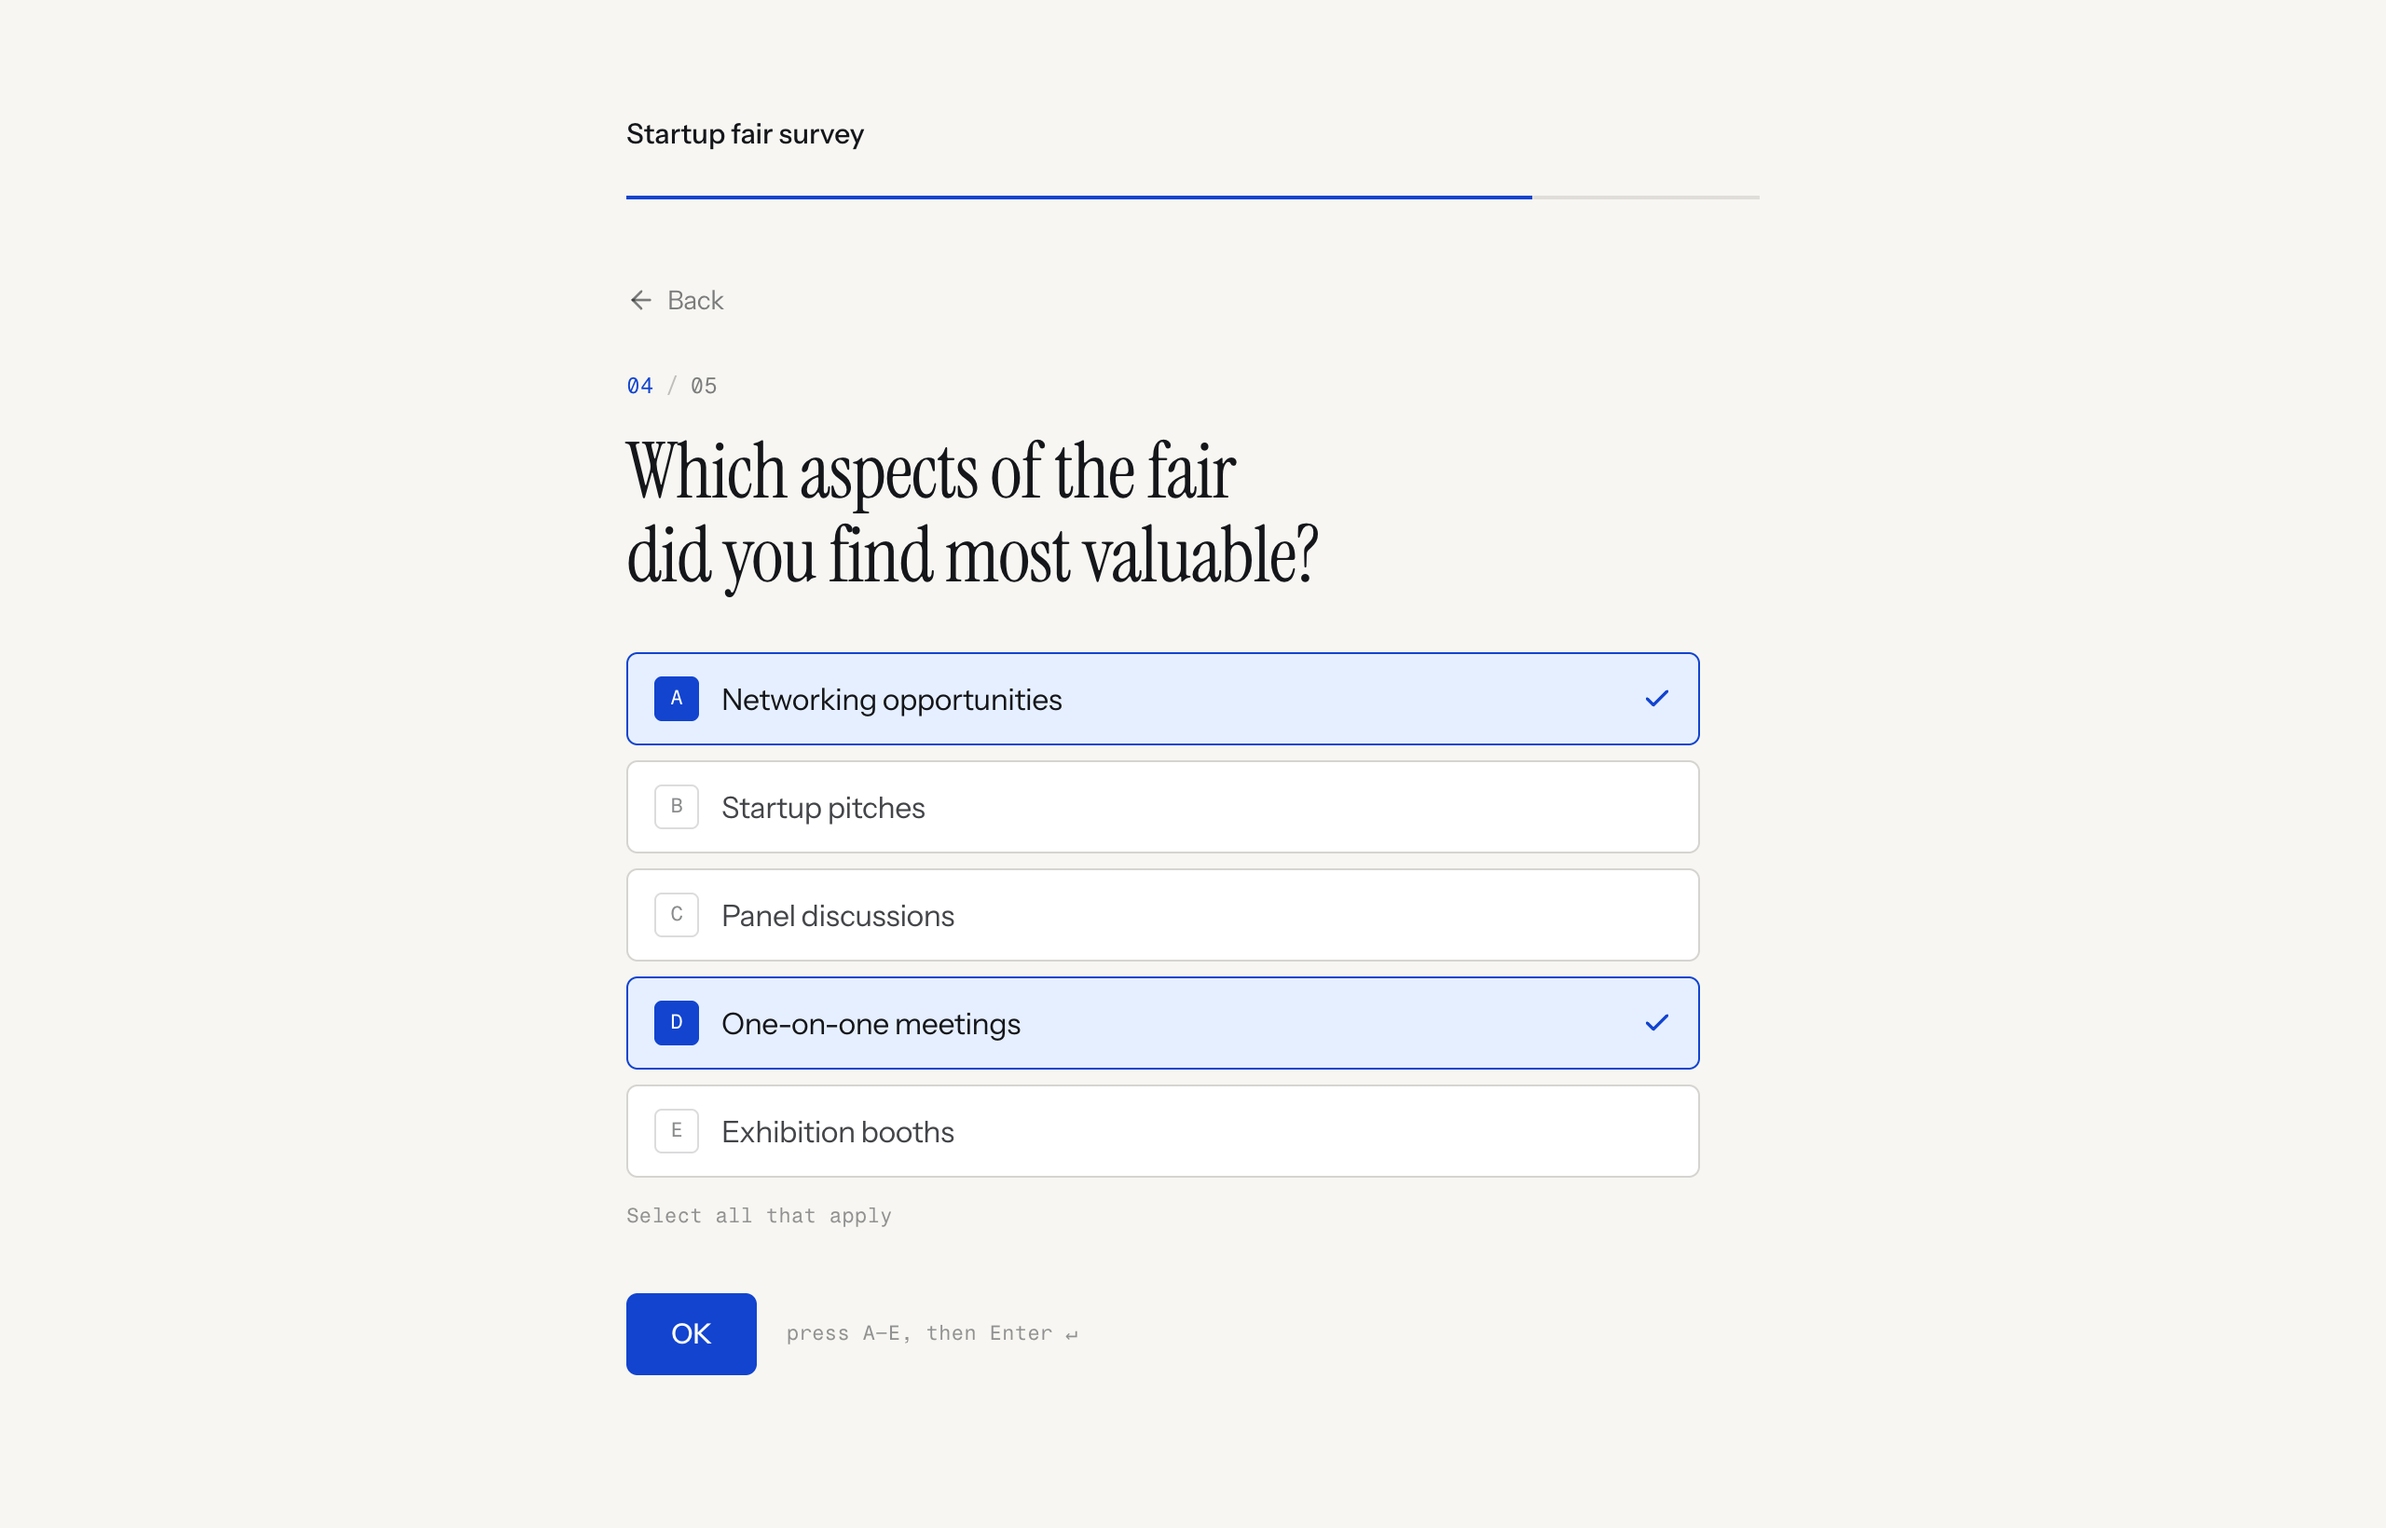
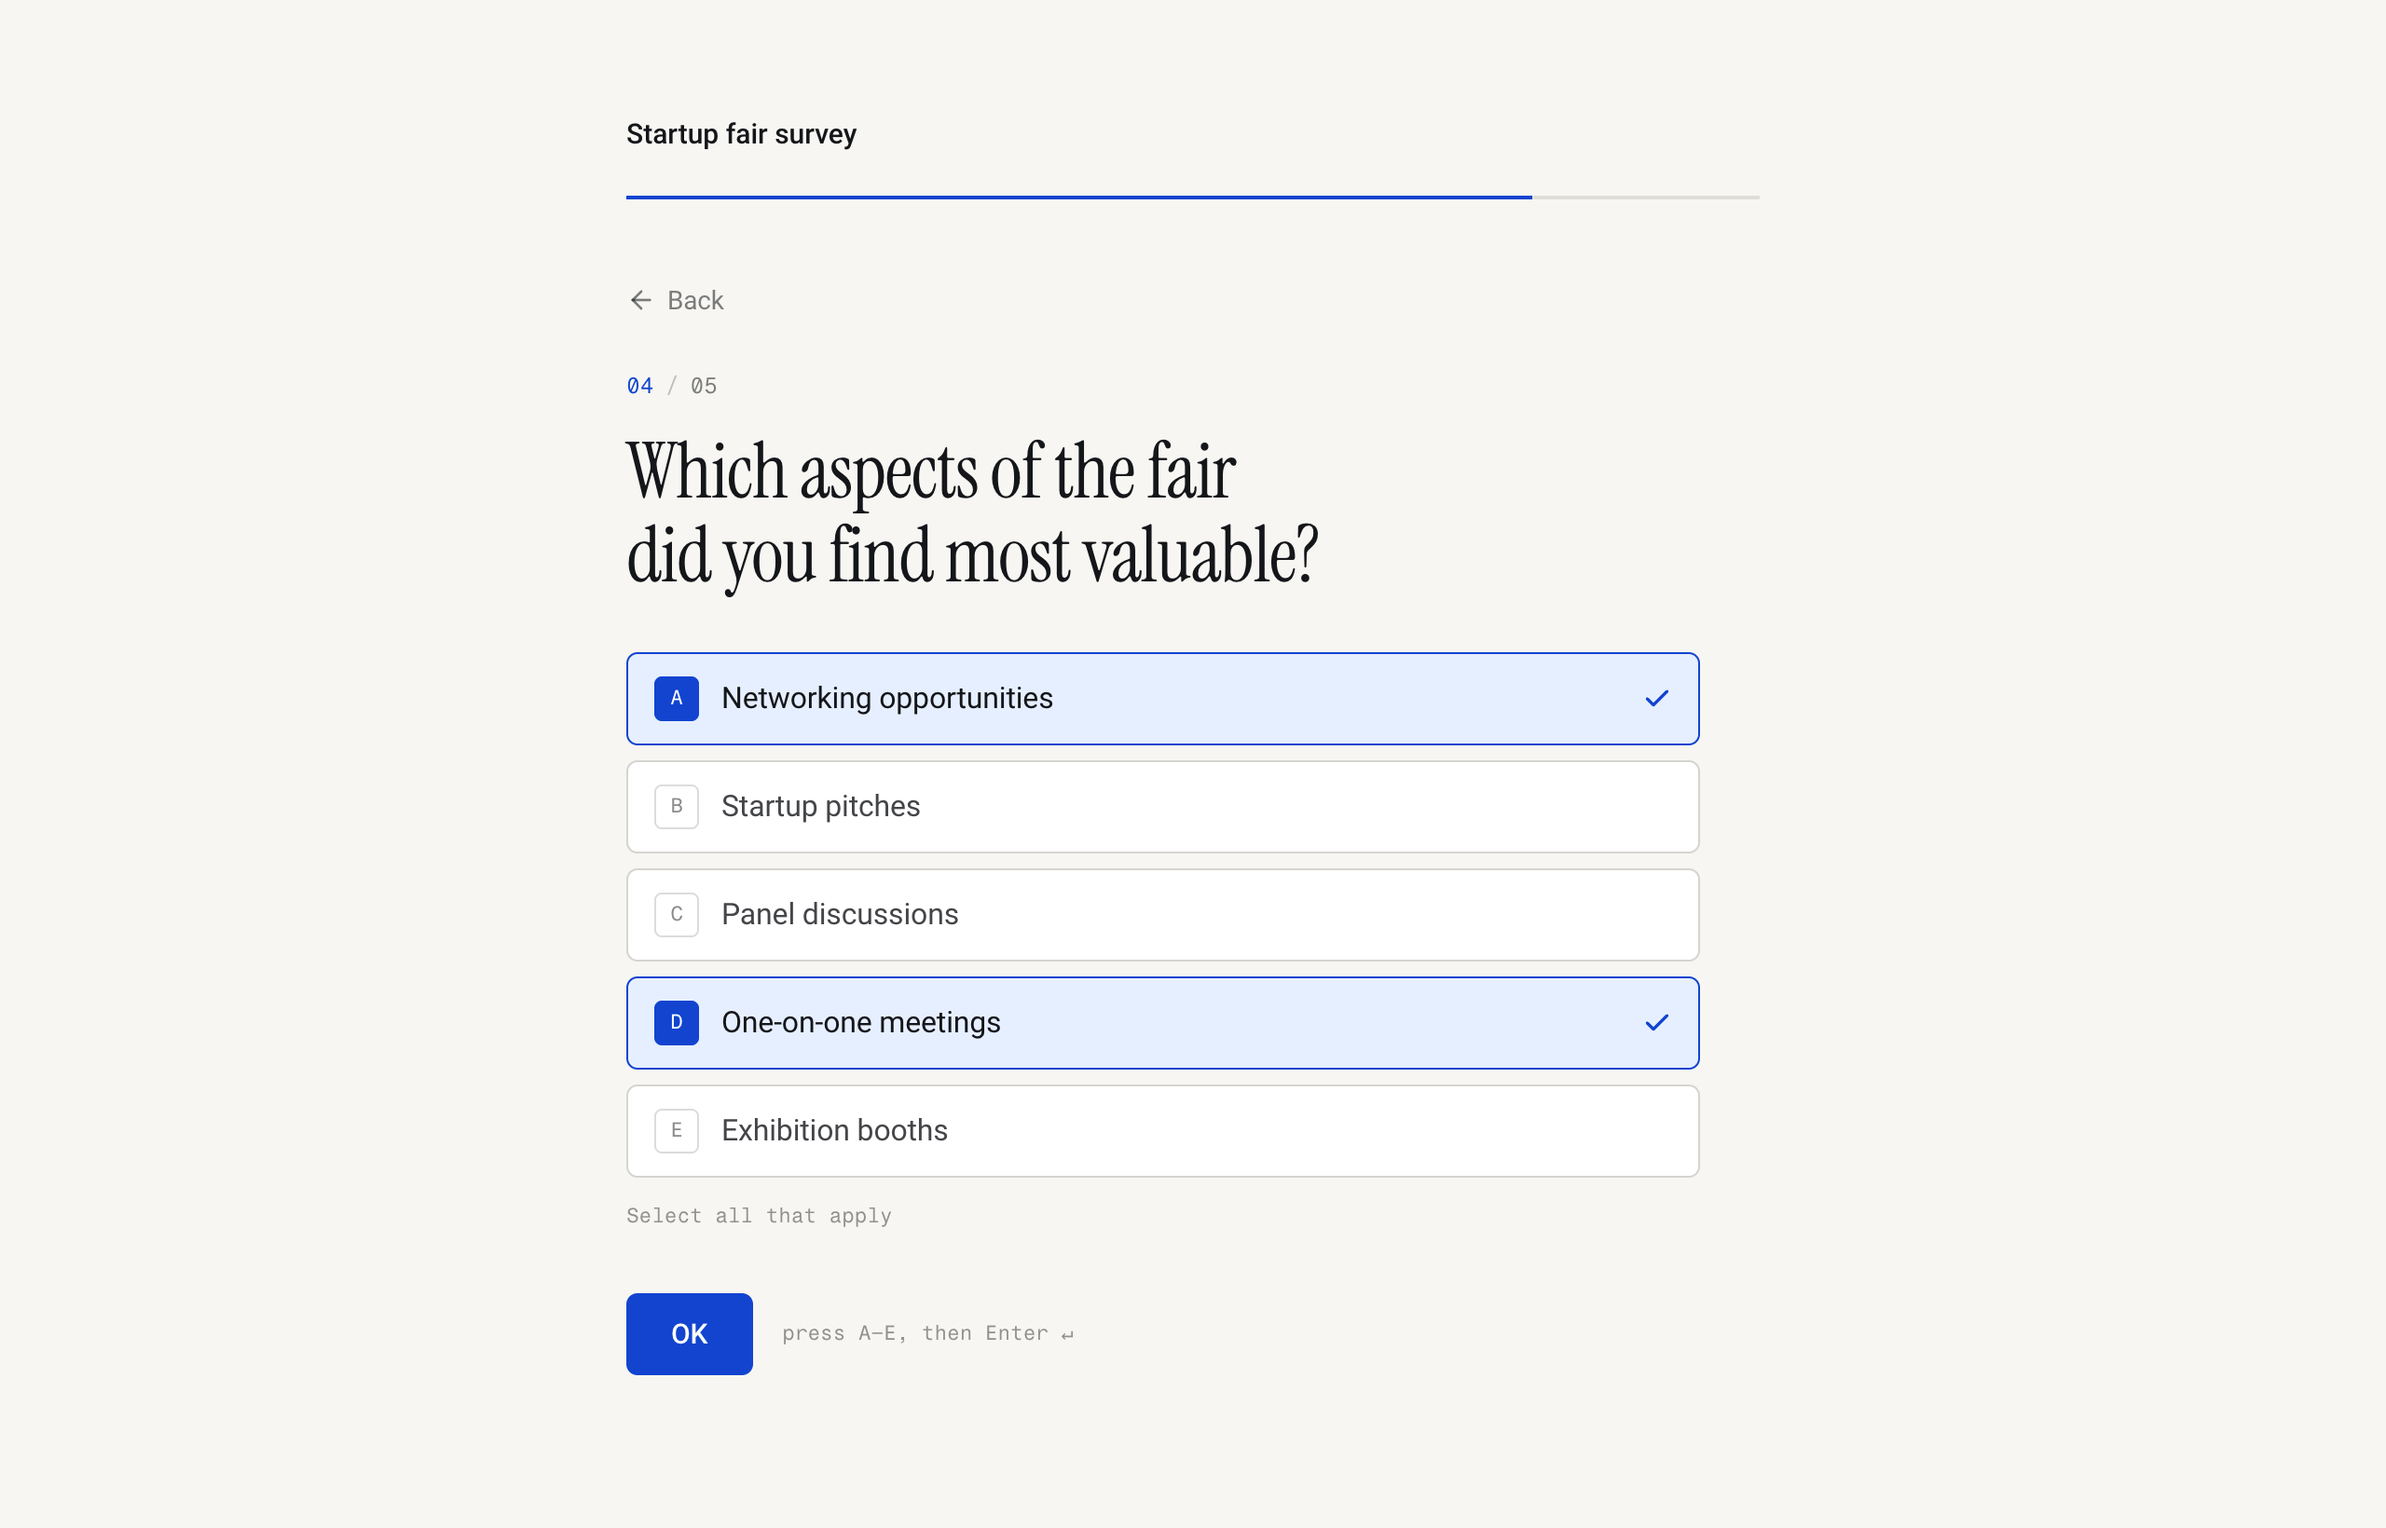
feat(design): switch interface type to Roboto; drop hero form hint
- Body and interface text now use Roboto (Google Fonts, 400-700) in place
  of Instrument Sans; tracking eased to -0.005em since Roboto is already
  compact. Instrument Serif headlines and Fragment Mono labels unchanged.
- Remove the hint line under the landing hero form.
- Re-render the OG image and the README landing and fill screenshots with
  the new font; README Design table updated.

diff --git a/src/routes/index.tsx b/src/routes/index.tsx
@@ -264,7 +264,6 @@ function HeroForm() {
 
   const current = step === "done" ? null : HERO_STEPS[step];
   const picked = step === "done" ? undefined : answers[step];
-  const skippedQ2 = history.length > 0 && !history.includes("integration") && step !== "blocker";
   const progress = step === "done" ? 1 : (current!.n - 1) / HERO_TOTAL;
 
   const pick = (opt: string) => {
@@ -303,17 +302,6 @@ function HeroForm() {
       pick(current.options[i]);
     }
   };
-
-  // A plain-language hint under the form: how it adapts, in respondent terms.
-  let note: React.ReactNode = null;
-  if (step === "blocker") {
-    note =
-      picked === "Missing integrations"
-        ? "You’ll get one follow-up question about integrations."
-        : "Tip: pick “Missing integrations” and the form adds a follow-up question.";
-  } else if (step === "plan" && skippedQ2) {
-    note = "One question was skipped because it didn’t apply to you.";
-  }
 
   return (
     <figure
@@ -450,15 +438,6 @@ function HeroForm() {
           </div>
         )}
       </Sheet>
-
-      {/* Slot reserved so steps without a hint don't make the layout jump. */}
-      <figcaption
-        aria-live="polite"
-        className="mt-4 min-h-[1.5rem] px-1 text-sm leading-relaxed text-ink/60 transition-opacity duration-300"
-        style={{ opacity: note ? 1 : 0 }}
-      >
-        {note}
-      </figcaption>
     </figure>
   );
 }

diff --git a/src/styles.css b/src/styles.css
@@ -79,7 +79,7 @@
   --color-mint-tint: var(--mint-tint);
   --color-sun: var(--sun);
   --color-sun-tint: var(--sun-tint);
-  --font-sans: "Instrument Sans", ui-sans-serif, system-ui, sans-serif;
+  --font-sans: "Roboto", ui-sans-serif, system-ui, sans-serif;
   --font-display: "Instrument Serif", ui-serif, Georgia, serif;
   --font-mono: "Fragment Mono", ui-monospace, SFMono-Regular, Menlo, monospace;
 }
@@ -171,8 +171,8 @@
     font-family: var(--font-sans);
     -webkit-font-smoothing: antialiased;
     text-rendering: optimizeLegibility;
-    /* Instrument Sans is set slightly tight, Bending Spoons-style. */
-    letter-spacing: -0.015em;
+    /* Roboto is already compact; only a hair of tightening for display sizes. */
+    letter-spacing: -0.005em;
   }
 
   ::selection {

diff --git a/src/routes/__root.tsx b/src/routes/__root.tsx
@@ -109,7 +109,7 @@ export const Route = createRootRouteWithContext<{ queryClient: QueryClient }>()(
       { rel: "preconnect", href: "https://fonts.gstatic.com", crossOrigin: "anonymous" },
       {
         rel: "stylesheet",
-        href: "https://fonts.googleapis.com/css2?family=Instrument+Sans:wght@400;500;600;700&family=Instrument+Serif:ital@0;1&family=Fragment+Mono:ital@0;1&display=swap",
+        href: "https://fonts.googleapis.com/css2?family=Roboto:wght@400;500;600;700&family=Instrument+Serif:ital@0;1&family=Fragment+Mono:ital@0;1&display=swap",
       },
     ],
   }),

diff --git a/README.md b/README.md
@@ -81,7 +81,7 @@ work.
 
 | | Choice |
 |---|---|
-| **Type** | [Instrument Serif](https://fonts.google.com/specimen/Instrument+Serif) for headlines and questions, [Instrument Sans](https://fonts.google.com/specimen/Instrument+Sans) for interface text, [Fragment Mono](https://fonts.google.com/specimen/Fragment+Mono) for labels, counters and numbers |
+| **Type** | [Instrument Serif](https://fonts.google.com/specimen/Instrument+Serif) for headlines and questions, [Roboto](https://fonts.google.com/specimen/Roboto) for interface text, [Fragment Mono](https://fonts.google.com/specimen/Fragment+Mono) for labels, counters and numbers |
 | **Colour** | Ink `#14161A` on paper `#FBFAF7`, with one Klein-style blue (`#1244D0`) reserved for actions, selection, focus and live data |
 | **Shape** | Tight 6–8 px radii, 1 px hairline borders, one soft shadow for floating "product sheets" only |
 | **Motion** | A single step transition between questions; respects `prefers-reduced-motion` |
